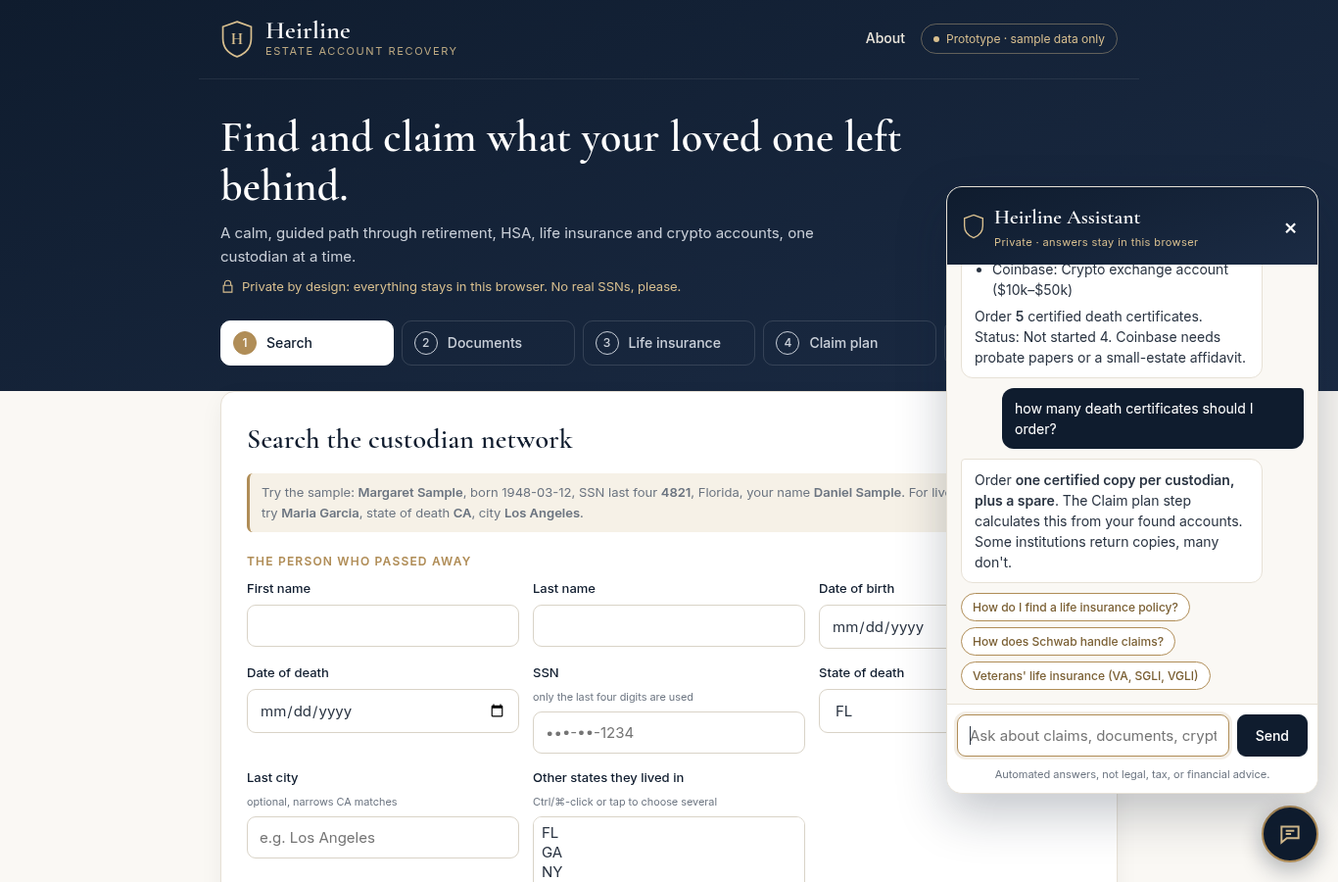
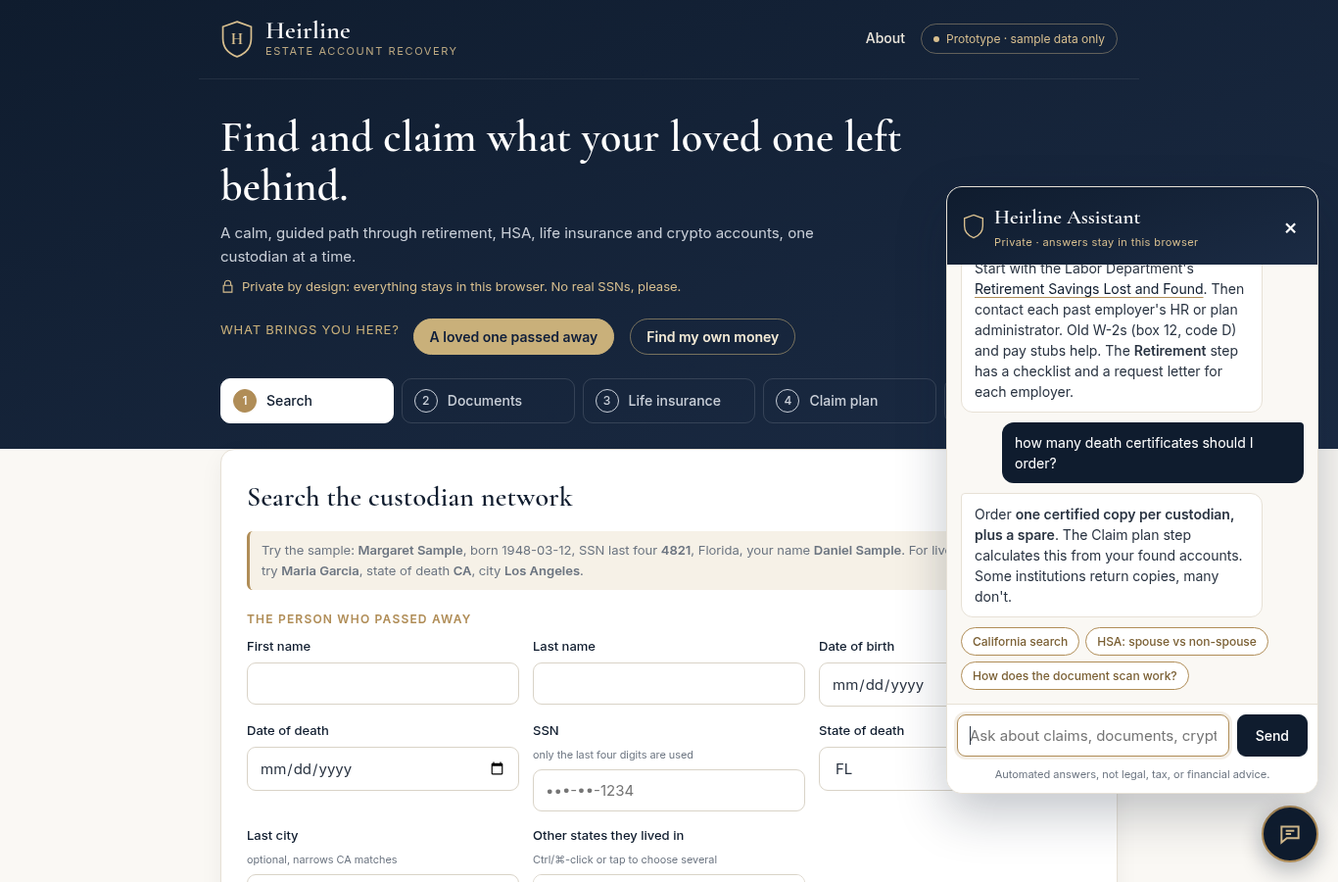
Add Find my own money mode: about you, unclaimed property with other names, retirement, other places, beneficiary checkup; About + chat updates

Changed region(s): [[0.0, 0.28, 1.0, 0.84], [0.369, 0.7156, 0.5534, 0.9956], [0.1845, 0.8711, 0.3075, 0.9956]]

diff --git a/self.js b/self.js
@@ -1,0 +1,58 @@
+// ---- "Find my own money" mode ----
+Object.assign(CUSTODIANS,{emp:{name:"Former employer plan"},dol:{name:"DOL Retirement Savings Lost and Found"},pbgc:{name:"PBGC unclaimed pensions"},other:{name:"Other source"}});
+const LOSS_NAV=$("nav.steps").innerHTML;
+const SELF_NAV=["s-about|About you","s-ucp|Unclaimed property","s-ret|Retirement","s-other|Other places","s-bene|Beneficiary checkup","track|Tracker"].map((x,i)=>{const [t,l]=x.split("|");return `<button data-tab="${t}"><span>${i+1}</span>${l}</button>`}).join("");
+const HERO={loss:["Find and claim what your loved one left behind.","A calm, guided path through retirement, HSA, life insurance and crypto accounts, one custodian at a time."],
+ self:["Find money that's already yours.","Old 401(k)s, forgotten pensions, uncashed checks and stray accounts, plus a checkup so your own family never has to search."]};
+let emp=LS.get("hl_emp",{}),bene=LS.get("hl_bene",[]);
+const BENE_LINKS={fidelity:["Fidelity","https://www.fidelity.com/customer-service/how-to-update-account-beneficiaries","Some workplace accounts need spouse consent to name someone else."],
+ vanguard:["Vanguard","https://support.vanguard.com/account-settings/beneficiaries",""],
+ schwab:["Schwab","https://www.schwab.com/estate-planning/faqs","Log in, then update beneficiaries under your account settings."],
+ empower:["Empower","https://www.empower.com/","Log in, open the account, then choose Beneficiaries. Your employer's plan may handle it differently."],
+ healthequity:["HealthEquity (HSA)","https://www.healthequity.com/help-center/articles/7910780-adding-an-hsa-beneficiary","Non-spouse beneficiaries in some states need an extra signed form."],
+ coinbase:["Coinbase","https://help.coinbase.com/",""],
+ other:["Other","",""]};
+function setMode(m){MODE=m;LS.set("hl_mode",m);ctx=LS.get(CTXK(),{});document.body.dataset.mode=m;
+ document.querySelectorAll("[data-mode]").forEach(b=>{b.classList.toggle("on",b.dataset.mode===m);b.setAttribute("aria-checked",b.dataset.mode===m)});
+ $(".hero h1").textContent=HERO[m][0];$(".hero h1+p").textContent=HERO[m][1];
+ $("nav.steps").innerHTML=m==="self"?SELF_NAV:LOSS_NAV;
+ const panel=$("#ucpPanel");(m==="self"?$("#s-ucpHost"):$("#results")).after(panel);
+ if(m==="self")fillAbout();renderUCP();show(m==="self"?"s-about":"search")}
+document.querySelectorAll("[data-mode]").forEach(b=>b.onclick=()=>setMode(b.dataset.mode));
+function fillAbout(){const f=$("#selfForm");if(!f||!ctx.last)return;f.first.value=ctx.first||"";f.last.value=ctx.last||"";
+ f.aliases.value=(ctx.aliases||[]).map(a=>a.first+" "+a.last).join("\n");f.city.value=ctx.city||"";f.employers.value=(ctx.employers||[]).join("\n");
+ [...f.states.options].forEach(o=>o.selected=[ctx.state,...(ctx.otherStates||[])].includes(o.value))}
+$("#selfForm").onsubmit=e=>{e.preventDefault();const f=e.target;const states=[...f.states.selectedOptions].map(o=>o.value);
+ const aliases=f.aliases.value.split(/\n|;/).map(s=>s.trim()).filter(Boolean).map(s=>{const p=s.split(/\s+/);return p.length>1?{first:p.slice(0,-1).join(" "),last:p.at(-1)}:{first:f.first.value.trim(),last:p[0]}});
+ ctx={first:f.first.value.trim(),last:f.last.value.trim(),aliases,state:states[0]||"Other",otherStates:states.slice(1),city:f.city.value.trim(),
+  employers:f.employers.value.split("\n").map(s=>s.trim()).filter(Boolean),searchAll:ctx.searchAll};save();renderUCP();show("s-ucp")};
+function track(id,c,type,src,url,notes){if(!found.some(x=>x.id===id)){found.push({id,c,type,bal:"Unknown until confirmed",src,url});tracker[id]??={status:"Not started",notes,follow:""};save()}}
+const EMP_STEPS=["Found an old pay stub or W-2 (box 12 code D means a 401(k))","Checked DOL Lost and Found for this employer's plan","Got the plan name and administrator from HR or the plan's Form 5500","Sent the request letter to the plan administrator","Got a statement and decided: roll over, leave, or cash out"];
+function letter(e){const me=`${ctx.first} ${ctx.last}`,other=(ctx.aliases||[]).map(a=>a.first+" "+a.last).join(", ");
+ return `[Date]\n\nPlan Administrator\n${e} retirement plan\n[Administrator address from DOL Lost and Found, HR or Form 5500]\n\nRe: Request for account information, former employee\n\nTo the Plan Administrator:\n\nI worked for ${e} and may still have a balance in its retirement plan. Please tell me whether you hold an account or pension benefit in my name and, if so, send a current statement, the plan's summary plan description, and the forms to roll over or distribute my balance.\n\nName: ${me}${other?`\nOther names used while employed: ${other}`:""}\nDates of employment: [start] to [end]\nLast address on file: [address]${ctx.city?` (${ctx.city})`:""}\nSSN: I will give my full number by phone or a secure form once you confirm you administer this plan.\n\nPlease reply to [your email or address]. Thank you.\n\nSincerely,\n${me}`}
+function renderRet(){const out=$("#empOut");const E=ctx.employers||[];
+ out.innerHTML=E.length?E.map((e,i)=>{const s=emp[e]||[];return `<div class="ca-box"><div class="ca-head"><h4 style="margin:0">${esc(e)}</h4><span class="tag">${s.filter(Boolean).length}/${EMP_STEPS.length} done</span></div>
+  ${EMP_STEPS.map((t,j)=>`<label class="clue"><input type="checkbox" data-emp="${i}" data-j="${j}" ${s[j]?"checked":""}> ${t}</label>`).join("")}
+  <details><summary>Request letter to the plan administrator</summary><textarea rows="16" readonly>${esc(letter(e))}</textarea>
+  <button class="small" data-copy="${i}">Copy letter</button></details>
+  <button class="small" data-trk="${i}">${found.some(f=>f.id==="emp|"+e)?"In tracker":"Add to tracker"}</button></div>`}).join("")
+  :`<p class="note">Add past employers on the <a href="#" data-go="s-about">About you</a> step to get a checklist and letter for each.</p>`;
+ out.querySelectorAll("[data-emp]").forEach(c=>c.onchange=()=>{const e=E[c.dataset.emp];(emp[e]??=[])[c.dataset.j]=c.checked;LS.set("hl_emp",emp);renderRet()});
+ out.querySelectorAll("[data-copy]").forEach(b=>b.onclick=async()=>{const t=letter(E[b.dataset.copy]);try{await navigator.clipboard.writeText(t);b.textContent="Copied"}catch{prompt("Copy:",t)}});
+ out.querySelectorAll("[data-trk]").forEach(b=>b.onclick=()=>{const e=E[b.dataset.trk];track("emp|"+e,"emp",e+" retirement plan","Past employer","","Request letter to plan administrator");b.textContent="In tracker"});
+ out.querySelectorAll("[data-go]").forEach(a=>a.onclick=ev=>{ev.preventDefault();show(a.dataset.go)})}
+document.querySelectorAll("[data-trackx]").forEach(b=>b.onclick=()=>{const [id,c,type,url]=b.dataset.trackx.split("~");track(id,c,type,"Self search",url,"");b.textContent="In tracker";b.disabled=true});
+function renderBene(){const rows=$("#beneRows");
+ rows.innerHTML=bene.length?bene.map((r,i)=>{const L=BENE_LINKS[r.c]||BENE_LINKS.other;const stale=r.rev&&r.rev<new Date(Date.now()-3*365*864e5).toISOString().slice(0,10);
+  return `<tr><td><select data-b="${i}" data-k="c">${Object.entries(BENE_LINKS).map(([k,v])=>`<option value="${k}" ${k===r.c?"selected":""}>${v[0]}</option>`).join("")}</select></td>
+  <td><input data-b="${i}" data-k="t" value="${esc(r.t||"")}" placeholder="e.g. 401(k), IRA, HSA"></td>
+  <td>${r.c==="coinbase"?`<span class="no">No option</span>`:`<select data-b="${i}" data-k="n">${["Unsure","Yes","No"].map(v=>`<option ${v===r.n?"selected":""}>${v}</option>`).join("")}</select>`}</td>
+  <td><input type="date" data-b="${i}" data-k="rev" value="${r.rev||""}">${stale?`<br><small class="no">Over 3 years ago</small>`:""}</td>
+  <td>${r.c==="coinbase"?`<small>Coinbase accounts have no beneficiary option. Plan for crypto with a will or trust, or self-custody with multisig or Shamir backup so a trusted person can recover it.</small>`:L[1]?`<a href="${L[1]}" target="_blank" rel="noopener">Update ↗</a>${L[2]?`<br><small class="note">${L[2]}</small>`:""}`:`<small class="note">Check the provider's site after you log in.</small>`}</td>
+  <td><button class="link" data-del="${i}" aria-label="Remove row">Remove</button></td></tr>`}).join(""):`<tr><td colspan="6" class="note">No accounts yet. Add each account you own.</td></tr>`;
+ const need=bene.filter(r=>r.c!=="coinbase"&&r.n!=="Yes").length;$("#beneSum").textContent=bene.length?`${need} of ${bene.length} account${bene.length>1?"s":""} need${need===1?"s":""} attention.`:"";
+ rows.querySelectorAll("[data-b]").forEach(x=>x.onchange=()=>{bene[x.dataset.b][x.dataset.k]=x.value;LS.set("hl_bene",bene);renderBene()});
+ rows.querySelectorAll("[data-del]").forEach(x=>x.onclick=()=>{bene.splice(x.dataset.del,1);LS.set("hl_bene",bene);renderBene()})}
+$("#beneAdd").onclick=()=>{bene.push({c:"fidelity",t:"",n:"Unsure",rev:""});LS.set("hl_bene",bene);renderBene()};
+window.selfShow=t=>{if(t==="s-ret")renderRet();if(t==="s-bene")renderBene();if(t==="s-ucp"&&!ctx.last)$("#ucpPanel").innerHTML=`<div class="card"><p class="note">Fill in <b>About you</b> first so we can search your names.</p></div>`};
+setMode(MODE);

diff --git a/app.js b/app.js
@@ -1,13 +1,15 @@
 const $=s=>document.querySelector(s);
 const esc=s=>String(s??"").replace(/[&<>"']/g,c=>({"&":"&amp;","<":"&lt;",">":"&gt;",'"':"&quot;","'":"&#39;"}[c]));
 const LS={get:(k,d)=>{try{return JSON.parse(localStorage.getItem(k))??d}catch{return d}},set:(k,v)=>localStorage.setItem(k,JSON.stringify(v))};
-let found=LS.get("hl_found",[]), ctx=LS.get("hl_ctx",{}), tracker=LS.get("hl_tracker",{});
-const save=()=>{LS.set("hl_found",found);LS.set("hl_ctx",ctx);LS.set("hl_tracker",tracker)};
+let MODE=LS.get("hl_mode","loss");const CTXK=()=>MODE==="self"?"hl_ctx_self":"hl_ctx";
+let found=LS.get("hl_found",[]), ctx=LS.get(CTXK(),{}), tracker=LS.get("hl_tracker",{});
+const save=()=>{LS.set("hl_found",found);LS.set(CTXK(),ctx);LS.set("hl_tracker",tracker)};
+const UK=k=>(MODE==="self"?"self:":"")+k;
 
-document.querySelectorAll("nav button").forEach(b=>b.onclick=()=>show(b.dataset.tab));
-function show(t){const order=["search","scan","life","plan","track"],k=order.indexOf(t);document.querySelectorAll("nav button").forEach((b,i)=>b.classList.toggle("done",i<k));document.querySelectorAll("nav button").forEach(b=>b.classList.toggle("active",b.dataset.tab===t));
+document.querySelector("nav.steps").onclick=e=>{const b=e.target.closest("button[data-tab]");if(b)show(b.dataset.tab)};
+function show(t){const order=[...document.querySelectorAll("nav.steps button")].map(b=>b.dataset.tab),k=order.indexOf(t);document.querySelectorAll("nav button").forEach((b,i)=>b.classList.toggle("done",i<k));document.querySelectorAll("nav button").forEach(b=>b.classList.toggle("active",b.dataset.tab===t));
  document.querySelectorAll(".tab").forEach(s=>s.classList.toggle("active",s.id===t));
- if(t==="plan")renderPlan(); if(t==="life")renderLife(); if(t==="track")renderTracker(); window.scrollTo(0,0)}
+ if(t==="plan")renderPlan(); if(t==="life")renderLife(); if(window.selfShow)selfShow(t); if(t==="track")renderTracker(); window.scrollTo(0,0)}
 
 function addAccount(a){const id=a.c+"|"+a.type.toLowerCase(); const t=a.type.toLowerCase();
  const dup=f=>f.id===id||(f.c===a.c&&a.src==="document"&&(t==="ira"&&/ira/i.test(f.type)||f.type.toLowerCase().includes(t)||t.includes(f.type.toLowerCase())));
@@ -17,8 +19,8 @@ let ucp=LS.get("hl_ucp",{});
 const UCP_LABEL={"":"Not checked yet",checked:"Checked","none":"Nothing found",found:"Found property"};
 function renderUCP(){const el=$("#ucpPanel"); if(!ctx.last){el.innerHTML="";return}
  const states=[...new Set([ctx.state,...(ctx.otherStates||[])])].filter(s=>STATE_SITES[s]);
- const name=`${ctx.last}, ${ctx.first}`;
- const row=(key,S)=>{const st=ucp[key]||"";return `<div class="ucp-row"><div class="ucp-info"><b>${S.site}</b><span>${key==="MM"?S.name:S.name+" · official state site"}</span></div>
+ const allNames=[{first:ctx.first,last:ctx.last},...(ctx.aliases||[])].filter(n=>n.last);const name=allNames.map(n=>`${n.last}, ${n.first}`).join("; ");
+ const row=(key,S)=>{const st=ucp[UK(key)]||"";return `<div class="ucp-row"><div class="ucp-info"><b>${S.site}</b><span>${key==="MM"?S.name:S.name+" · official state site"}</span></div>
   <div class="ucp-act"><a class="btn" href="${S.url}" target="_blank" rel="noopener">Search ↗</a>
   <select data-ucp="${key}" aria-label="Result for ${S.site}">${Object.entries(UCP_LABEL).map(([v,l])=>`<option value="${v}" ${v===st?"selected":""}>${l}</option>`).join("")}</select></div></div>`};
  el.innerHTML=`<div class="card ucp"><div class="ucp-head"><h3>Unclaimed property</h3><span class="tag gold">${states.length+1} place${states.length?"s":""} to check</span></div>
@@ -31,8 +33,8 @@ function renderUCP(){const el=$("#ucpPanel"); if(!ctx.last){el.innerHTML="";retu
  <p class="note">Marking a result "Found property" adds it to your claim plan and tracker.</p></div>`;
  $("#copyName").onclick=async e=>{try{await navigator.clipboard.writeText(name);e.target.textContent="Copied"}catch{prompt("Copy:",name)}};
  $("#searchAll").onchange=e=>{ctx.searchAll=e.target.checked;save();searchAuto(states)};searchAuto(states);
- el.querySelectorAll("[data-ucp]").forEach(s=>s.onchange=()=>{const k=s.dataset.ucp;ucp[k]=s.value;LS.set("hl_ucp",ucp);
-  const S=k==="MM"?MISSING_MONEY:STATE_SITES[k];const id="ucp|"+k;
+ el.querySelectorAll("[data-ucp]").forEach(s=>s.onchange=()=>{const k=s.dataset.ucp;ucp[UK(k)]=s.value;LS.set("hl_ucp",ucp);
+  const S=k==="MM"?MISSING_MONEY:STATE_SITES[k];const id="ucp|"+UK(k);
   if(s.value==="found"){if(!found.some(f=>f.id===id)){found.push({id,c:"ucp",type:"Unclaimed property · "+S.name,bal:"Shown on state site",src:"unclaimed-property search",url:S.url});
    tracker[id]??={status:"Not started",notes:"Found via "+S.site,follow:""};save()}}
   else{const i=found.findIndex(f=>f.id===id);if(i>=0&&!(tracker[id]&&tracker[id].status!=="Not started")){found.splice(i,1);delete tracker[id];save()}}})}
@@ -42,7 +44,7 @@ async function covered(){return COVERED??=await (await fetch("data/states.json")
 async function shardFor(st,last){const m=metaC[st]??=await (await fetch(`data/${st.toLowerCase()}/meta.json`)).json();
  const k=nm(last);let key=k.slice(0,2);if(m.shards[key]==="split")key=k.slice(0,3);if(!m.shards[key])return [m,null];
  return [m,shardC[st+key]??=await (await fetch(`data/${st.toLowerCase()}/${key}.json`)).json()]}
-function matchRows(sh){const L=nm(ctx.last),F=nm(ctx.first),city=(ctx.city||"").toUpperCase().trim();const rows=[];if(!sh)return rows;
+function matchRows(sh,first=ctx.first,last=ctx.last){const L=nm(last),F=nm(first),city=(ctx.city||"").toUpperCase().trim();const rows=[];if(!sh)return rows;
  for(const r of sh.r){if(nm(r[0])!==L)continue;const fr=nm((r[1]||"").split(" ")[0]);let m=null;
   if(F&&fr===F)m="exact";else if(F&&fr[0]===F[0]&&(fr.length===1||F.startsWith(fr)||fr.startsWith(F)))m="close";if(!m)continue;
   if(city&&r[2]!==city)continue;rows.push({m,last:r[0],rest:r[1],city:r[2],zip:r[3],type:sh.t[r[4]],amt:r[5],holder:sh.h[r[6]],id:r[7],paid:r[8]})}
@@ -53,9 +55,9 @@ async function searchAuto(rel){const box=$("#autoMatches");if(!box)return;
   if(!list.length){box.innerHTML=`<p class="note">None of the selected states publish open data yet. Turn on "Search all covered states" or use the manual searches below.</p>`;return}
   box.innerHTML=list.map(s=>`<div class="ca-box" id="auto-${s}"><p class="note">Searching ${cov[s].name}'s public records…</p></div>`).join("");
   let total=0;
-  for(const st of list){const el=$("#auto-"+st);const [m,sh]=await shardFor(st,ctx.last);const rows=matchRows(sh);total+=rows.length;const shown=rows.slice(0,50);
-   el.innerHTML=`<div class="ca-head"><h4 style="margin:0">${m.name} · automatic search${rel.includes(st)?"":' <span class="tag">not a state they lived in</span>'}</h4><span class="note">Data as of ${m.asOf} · records of ${fmt(m.minAmount)}+ only · ${m.records.toLocaleString()} records</span></div>
-   ${rows.length?`<p class="note">${rows.length} possible match${rows.length>1?"es":""} for <b>${esc(ctx.last)}, ${esc(ctx.first)}</b>${ctx.city?" in "+esc(ctx.city.toUpperCase()):""}${rows.length>50?" (showing top 50)":""}. Confirm the address matches before claiming.</p>
+  for(const st of list){const el=$("#auto-"+st);let m,rows=[];for(const n of [{first:ctx.first,last:ctx.last},...(ctx.aliases||[])].filter(n=>n.last)){const [mm,sh]=await shardFor(st,n.last);m=mm;const seen=new Set(rows.map(r=>r.id));matchRows(sh,n.first,n.last).forEach(r=>{if(!seen.has(r.id))rows.push(r)})}rows.sort((a,b)=>(a.m>b.m?-1:a.m<b.m?1:0)||b.amt-a.amt);total+=rows.length;const shown=rows.slice(0,50);
+   el.innerHTML=`<div class="ca-head"><h4 style="margin:0">${m.name} · automatic search${rel.includes(st)?"":' <span class="tag">not a state ${MODE==="self"?"you":"they"} lived in</span>'}</h4><span class="note">Data as of ${m.asOf} · records of ${fmt(m.minAmount)}+ only · ${m.records.toLocaleString()} records</span></div>
+   ${rows.length?`<p class="note">${rows.length} possible match${rows.length>1?"es":""} for <b>${esc(ctx.last)}, ${esc(ctx.first)}${(ctx.aliases||[]).length?" (and other names)":""}</b>${ctx.city?" in "+esc(ctx.city.toUpperCase()):""}${rows.length>50?" (showing top 50)":""}. Confirm the address matches before claiming.</p>
    <div class="tbl"><table><tr><th>Match</th><th>Owner on record</th><th>City</th><th>Amount</th><th>Holder</th><th>Property ID</th><th></th></tr>
    ${shown.map(r=>{const id=st.toLowerCase()+"|"+r.id,on=found.some(f=>f.id===id);return `<tr><td><span class="tag ${r.m==="exact"?"gold":""}">${r.m}</span></td><td>${esc(r.last+" "+r.rest)}</td><td>${esc(r.city)} ${esc(r.zip)}</td><td>${fmt(r.amt)}${r.paid?' <small class="no">claim paid before</small>':""}</td><td>${esc(r.holder)}<br><small class="note">${esc(r.type)}</small></td><td>${esc(r.id)}</td>
     <td><button class="small" data-auto="${st}" data-rec='${esc(JSON.stringify(r))}' ${on?"disabled":""}>${on?"In tracker":"Add to tracker"}</button></td></tr>`}).join("")}</table></div>

diff --git a/index.html b/index.html
@@ -9,6 +9,7 @@
 <div class="wrap hero"><h1>Find and claim what your loved one left behind.</h1>
 <p>A calm, guided path through retirement, HSA, life insurance and crypto accounts, one custodian at a time.</p>
 <p class="trust"><svg viewBox="0 0 24 24" width="15" height="15"><path d="M7 10V7a5 5 0 0 1 10 0v3M5 10h14v11H5z" fill="none" stroke="currentColor" stroke-width="1.8"/></svg> Private by design: everything stays in this browser. No real SSNs, please.</p></div>
+<div class="wrap modes" role="radiogroup" aria-label="What brings you here?"><span class="modes-q">What brings you here?</span><button type="button" role="radio" data-mode="loss">A loved one passed away</button><button type="button" role="radio" data-mode="self">Find my own money</button></div>
 <nav class="wrap steps"><button data-tab="search" class="active"><span>1</span>Search</button><button data-tab="scan"><span>2</span>Documents</button><button data-tab="life"><span>3</span>Life insurance</button><button data-tab="plan"><span>4</span>Claim plan</button><button data-tab="track"><span>5</span>Tracker</button></nav></header>
 <main class="wrap">
 <section id="search" class="tab active"><div class="card"><h2>Search the custodian network</h2>
@@ -52,6 +53,35 @@
 <p class="note">Found a policy? Scan the document in <b>Documents</b> to add it to your claim plan, or note the insurer in the tracker.</p></div></section>
 <section id="plan" class="tab"><div id="planOut"></div></section>
 <section id="track" class="tab"><div id="trackOut"></div></section>
+
+<section id="s-about" class="tab"><div class="card"><h2>About you</h2><p class="note">We use this only to search public records and fill in letters. It stays in this browser. No SSN needed here.</p>
+<form id="selfForm"><div class="grid"><label>First name<input name="first" required placeholder="Ellen"></label><label>Last name<input name="last" required placeholder="Okafor"></label></div>
+<label>Other or maiden names <small>One per line, e.g. "Ellen Brooks" or just "Brooks"</small><textarea name="aliases" rows="2"></textarea></label>
+<div class="grid"><label>States you've lived in <small>Ctrl/⌘-click or tap to choose several</small><select name="states" multiple size="4"><option value="FL">FL</option><option value="GA">GA</option><option value="NY">NY</option><option value="CA">CA</option><option value="TX">TX</option><option value="NC">NC</option><option value="PA">PA</option><option value="OH">OH</option><option value="IL">IL</option><option value="VA">VA</option></select></label>
+<label>Last city you lived in <small>Optional: narrows the automatic search</small><input name="city"></label></div>
+<label>Past employers <small>One per line</small><textarea name="employers" rows="3" placeholder="Acme Logistics&#10;Brightwater Bank"></textarea></label>
+<button class="primary">Save and search</button></form></div></section>
+<section id="s-ucp" class="tab"><div id="s-ucpHost"></div></section>
+<section id="s-ret" class="tab"><div class="card"><h2>Retirement and lost accounts</h2>
+<div class="ca-box"><h4>DOL Retirement Savings Lost and Found</h4><p class="note">The U.S. Department of Labor's free database of workplace retirement plans that owe people money. You sign in with an identity-verified Login.gov account and it searches your own SSN, then shows the plan and the administrator to contact. Heirline never sees your SSN.</p>
+<a class="btn" href="https://lostandfound.dol.gov/" target="_blank" rel="noopener">Open Lost and Found ↗</a> <button class="small" data-trackx="self|dol~dol~DOL Lost and Found search~https://lostandfound.dol.gov/">Add to tracker</button></div>
+<div class="ca-box"><h4>PBGC unclaimed pensions</h4><p class="note">The Pension Benefit Guaranty Corporation lists people owed pensions from plans that ended. Search by last name and the last 4 digits of your SSN (type them on PBGC's site, not here). A match is a first step: you then contact PBGC.</p>
+<a class="btn" href="https://www.pbgc.gov/workers-retirees/find-unclaimed-retirement-benefits/search-unclaimed" target="_blank" rel="noopener">Search PBGC ↗</a> <button class="small" data-trackx="self|pbgc~pbgc~PBGC unclaimed pension search~https://www.pbgc.gov/workers-retirees/find-unclaimed-retirement-benefits/search-unclaimed">Add to tracker</button></div>
+<h3>Your past employers</h3><div id="empOut"></div></div></section>
+<section id="s-other" class="tab"><div class="card"><h2>Other places to look</h2>
+<div class="ca-box"><h4>Savings bonds and Treasury securities</h4><p class="note">Treasury Hunt closed on September 30, 2025. Matured, unclaimed Treasury securities now go through state unclaimed-property programs, so search every state you've lived in. For lost, stolen or destroyed paper bonds, use TreasuryDirect's forms.</p>
+<a class="btn" href="https://unclaimed.org/" target="_blank" rel="noopener">State programs ↗</a> <a class="btn" href="https://www.treasurydirect.gov/savings-bonds/forms/" target="_blank" rel="noopener">Bond forms ↗</a> <a class="btn" href="https://www.treasurydirect.gov/savings-bonds/treasury-hunt/" target="_blank" rel="noopener">About the change ↗</a></div>
+<div class="ca-box"><h4>Old HSAs</h4><p class="note">HSAs stay yours after you leave a job. Check old benefits paperwork or pay stubs for the HSA provider's name, then log in or call. Dormant HSAs can be turned over to the state, so the unclaimed-property step also covers them.</p>
+<button class="small" data-trackx="self|hsa~other~Old HSA from a past employer~">Add to tracker</button></div>
+<div class="ca-box"><h4>Old bank and brokerage accounts</h4><p class="note">Look for old statements, 1099 tax forms, or emails from banks and brokers. Accounts with no activity for a few years are sent to the state, so search each state you've lived in. Brokerage shares may be sold by the state, but you can usually still claim their value.</p>
+<button class="small" data-trackx="self|bank~other~Old bank or brokerage account~">Add to tracker</button></div>
+<div class="ca-box"><h4>IRS refunds</h4><p class="note">Use Where's My Refund to check a recent return or start a trace for a lost check. If you never filed for a year you were owed a refund, you generally have three years to claim it. For a missing check, the IRS line is 800-829-1954.</p>
+<a class="btn" href="https://www.irs.gov/refunds" target="_blank" rel="noopener">Where's My Refund ↗</a> <a class="btn" href="https://www.usa.gov/unclaimed-tax-refunds" target="_blank" rel="noopener">Unclaimed tax refunds ↗</a></div>
+<p class="note">Think you're the beneficiary of someone else's life insurance? The <a href="https://eapps.naic.org/life-policy-locator/" target="_blank" rel="noopener">NAIC Life Insurance Policy Locator</a> searches on behalf of beneficiaries of a person who has died.</p></div></section>
+<section id="s-bene" class="tab"><div class="card"><h2>Beneficiary checkup</h2><p class="note">Accounts with a named beneficiary pass directly and quickly. Accounts without one can end up in probate. List what you own and check each one. <b id="beneSum"></b></p>
+<div class="tbl"><table class="bene"><tr><th>Provider</th><th>Account</th><th>Beneficiary named?</th><th>Last reviewed</th><th>Update</th><th></th></tr><tbody id="beneRows"></tbody></table></div>
+<button class="small" id="beneAdd">+ Add account</button>
+<p class="note">Review after marriage, divorce, a birth or a death. A beneficiary form usually overrides your will.</p></div></section>
 </main><footer class="wrap">Heirline prototype · fictional sample data · not legal, tax or financial advice · Contact: <a href="mailto:heirline@mail.grokbot.com">heirline@mail.grokbot.com</a></footer>
 <script src="https://cdn.jsdelivr.net/npm/pdfjs-dist@3.11.174/build/pdf.min.js"></script>
-<script src="data.js"></script><script src="app.js"></script><script src="chat.js"></script></body></html>
+<script src="data.js"></script><script src="app.js"></script><script src="self.js"></script><script src="chat.js"></script></body></html>

diff --git a/chat.js b/chat.js
@@ -3,6 +3,15 @@
 const L=(u,t)=>`<a href="${u}" target="_blank" rel="noopener">${t} ↗</a>`;
 const U={fid:"https://digital.fidelity.com/prgw/digital/journeys/loss/report-a-death",van:"https://investor.vanguard.com/inheriting-accounts",sch:"https://www.schwab.com/life-events/losing-a-loved-one",emp:"https://www.empower.com/beneficiary-claim",he:"https://www.healthequity.com/help-center/articles/6026409-hsa-account-management",cb:"https://help.coinbase.com/en/coinbase/managing-my-account/other/how-do-i-gain-access-to-a-deceased-family-members-coinbase-account",mm:"https://missingmoney.com/app/claim-search",naupa:"https://unclaimed.org/search-property/",ca:"https://claimit.ca.gov/",cer:"https://www.cerulli.com/press-releases/cerulli-anticipates-84-trillion-in-wealth-transfers-through-2045"};
 const KB=[
+["What is Find my own money?","find my own money self mode myself own lost money mine forgotten","<b>Find my own money</b> is a second mode. Choose it at the top of the app. It walks you through <b>About you</b>, <b>Unclaimed property</b> (searching your name and any other or maiden names), <b>Retirement</b>, <b>Other places</b>, a <b>Beneficiary checkup</b>, and the shared <b>Tracker</b>."],
+["How do I find an old 401(k)?","old 401k lost retirement plan former employer forgotten job pension find","Start with the Labor Department's <a href='https://lostandfound.dol.gov/' target='_blank' rel='noopener'>Retirement Savings Lost and Found</a>. Then contact each past employer's HR or plan administrator. Old W-2s (box 12, code D) and pay stubs help. The <b>Retirement</b> step has a checklist and a request letter for each employer."],
+["What is DOL Lost and Found?","dol department of labor lost and found login.gov retirement database","A free U.S. Department of Labor database of workplace retirement plans. You sign in with an identity-verified Login.gov account, and it searches your own SSN and shows the plan administrator to contact. Heirline never sees your SSN. DOL staff can't search for you."],
+["How do I check PBGC for a pension?","pbgc pension guaranty unclaimed pension ended plan terminated","The <a href='https://www.pbgc.gov/workers-retirees/find-unclaimed-retirement-benefits/search-unclaimed' target='_blank' rel='noopener'>PBGC search</a> lists people owed pensions from plans that ended. Search by last name and the last 4 of your SSN on PBGC's site. A match is a first step: then you contact PBGC."],
+["Can I still use Treasury Hunt?","treasury hunt savings bonds treasurydirect matured unclaimed bonds","No. Treasury Hunt closed on September 30, 2025. Matured, unclaimed Treasury securities now go through state unclaimed-property programs (see <a href='https://unclaimed.org/' target='_blank' rel='noopener'>unclaimed.org</a>). For lost or destroyed paper bonds, use <a href='https://www.treasurydirect.gov/savings-bonds/forms/' target='_blank' rel='noopener'>TreasuryDirect's forms</a>."],
+["Do I have an unclaimed IRS refund?","irs refund tax refund where's my refund missing check unclaimed","Use <a href='https://www.irs.gov/refunds' target='_blank' rel='noopener'>Where's My Refund</a> to check a return or start a trace on a lost check. If you didn't file for a year you were owed money, you generally have three years to claim it. Missing check line: 800-829-1954."],
+["What about an old HSA?","old hsa health savings account former job left employer","An HSA stays yours after you leave a job. Find the provider on old benefits papers or pay stubs, then log in or call. Dormant HSAs can be turned over to the state, so search unclaimed property too."],
+["Why should I check my beneficiaries?","beneficiary checkup review update designation my own beneficiaries","A named beneficiary lets an account pass directly, without probate, and the form usually overrides your will. Review after marriage, divorce, a birth or a death. The <b>Beneficiary checkup</b> step lists your accounts with links to each provider's update page."],
+["How do I name a beneficiary for crypto?","crypto coinbase beneficiary my own multisig shamir estate plan bitcoin","Coinbase accounts have no beneficiary option. Cover crypto in your will or a trust, or use self-custody with a multisig or Shamir backup so a trusted person can recover it. Talk to an estate attorney about the details."],
 ["What is Heirline?","what is heirline about purpose app does overview explain","Heirline helps families find a loved one's retirement accounts, HSAs and crypto, then work through each claim. It has five steps: <b>Search</b>, <b>Documents</b>, <b>Unclaimed property</b>, a <b>Claim plan</b> with cover letters, and a <b>Tracker</b>."],
 ["Is this a real service?","prototype real demo test fake beta production live service","No. Heirline is a <b>prototype</b>. The custodian network is sample data, nothing is submitted to any institution, and it isn't legal, tax or financial advice."],
 ["How does search work?","search work how lookup find accounts custodian network","Enter the person's name, dates, SSN last four, state and your role. The app checks a <b>sample</b> custodian network of 8 fictional people and shows each account's type, a balance range and whether you're a named beneficiary. Try Margaret Sample, born 1948-03-12, last four 4821."],
@@ -51,7 +60,7 @@ const KB=[
 ["How do I contact Heirline?","contact email reach team support talk human","Email us at <a href='mailto:heirline@mail.grokbot.com'>heirline@mail.grokbot.com</a>. It's a prototype, so replies may take a little while."],
 ["For financial institutions","financial institutions bank custodian partner business","We're exploring beneficiary checkups for account owners and better-organized claim packets for custodians. Questions? Email <a href='mailto:heirline@mail.grokbot.com'>heirline@mail.grokbot.com</a>."]
 ];
-const SUG=["What is Heirline?","My results","How do I find a life insurance policy?","What documents should I gather?","How many death certificates?","California search","Crypto with no beneficiary"];
+const SUG=["What is Heirline?","How do I find an old 401(k)?","My results","How do I find a life insurance policy?","What documents should I gather?","How many death certificates?","California search","Crypto with no beneficiary"];
 const tok=s=>(s.toLowerCase().match(/[a-z0-9]+/g)||[]).map(w=>w.replace(/(ies)$/,"y").replace(/([^s])s$/,"$1"));
 const STOP=new Set("the a an is i my do how what to of for and or in on it can should does me you with about".split(" "));
 const docs=KB.map(([q,k,a])=>({q,a,t:tok(q+" "+k)}));

diff --git a/about.html b/about.html
@@ -26,7 +26,8 @@
 <div class="card"><div class="num">05</div><h3>Life insurance</h3><p>Guidance on the free NAIC Life Insurance Policy Locator and MIB's paid locator, veterans' coverage, and a checklist of clues like premium payments and employer group policies. The document scan spots insurer names and premium notices, and locator requests go straight into your tracker.</p></div>
 <div class="card"><div class="num">06</div><h3>Claim plan</h3><p>Step-by-step instructions and a document checklist for each custodian, a ready-to-edit cover letter to copy or download, and a death-certificate count.</p></div>
 <div class="card"><div class="num">07</div><h3>Tracker</h3><p>Follow every claim from not started to paid, with notes and follow-up dates.</p></div>
-<div class="card"><div class="num">08</div><h3>Heirline Assistant</h3><p>A built-in chat with 47 answers on claims, documents, life insurance, probate basics, HSAs and crypto. Ask for <b>my results</b> to get a summary of your found accounts and plan. It runs in your browser and the chat isn't saved.</p></div></div>
+<div class="card"><div class="num">08</div><h3>Find my own money</h3><p>A second mode for your own forgotten money. Search unclaimed property under your name and any other or maiden names, check the Labor Department's Retirement Savings Lost and Found and PBGC, and get a checklist and request letter for each past employer. It also covers savings bonds, old HSAs and bank accounts, and IRS refunds, and includes a beneficiary checkup with links to each provider's update page.</p></div>
+<div class="card"><div class="num">09</div><h3>Heirline Assistant</h3><p>A built-in chat with 56 answers on claims, documents, life insurance, probate basics, HSAs, crypto and finding your own lost money. Ask for <b>my results</b> to get a summary of your found accounts and plan. It runs in your browser and the chat isn't saved.</p></div></div>
 <section class="card dark"><h4>For financial institutions</h4><h2>Fewer stalled claims, better-prepared beneficiaries</h2>
 <p>We're exploring tools for custodians and plan providers: beneficiary checkups that help account owners keep designations current while they're alive, and complete, well-organized claim packets that make the process smoother for families and staff after a death.</p></section>
 <section class="card"><h4>How it protects your privacy</h4><h2>Honest about what this prototype does</h2>

diff --git a/styles.css b/styles.css
@@ -57,3 +57,9 @@ select[multiple]{padding:6px}@media(max-width:620px){.ucp-act{width:100%}.ucp-ac
 .sw{flex-direction:row;align-items:center;gap:8px;font-weight:600}.sw input{width:18px;height:18px;accent-color:var(--ink)}
 .clue{flex-direction:row;align-items:flex-start;gap:10px;font-weight:400;padding:9px 0;border-bottom:1px solid var(--line);font-size:14px}.clue input{margin-top:3px;width:17px;height:17px;accent-color:var(--ink)}
 #life .ca-box{margin-bottom:14px}@media(max-width:620px){.steps button{min-width:calc(33% - 6px)}}
+.modes{display:flex;flex-wrap:wrap;gap:8px;align-items:center;margin:4px auto 14px}.modes-q{color:#c9b07a;font-size:13px;letter-spacing:.06em;text-transform:uppercase;margin-right:6px}
+.modes button{background:transparent;border:1px solid rgba(201,176,122,.55);color:#f3ead6;border-radius:999px;padding:9px 16px;font-weight:600;cursor:pointer}
+.modes button.on{background:#c9b07a;color:#0f1e3a;border-color:#c9b07a}
+#empOut textarea{width:100%;font:13px/1.45 Inter,sans-serif;margin:8px 0}#empOut details{margin:10px 0}#empOut summary{cursor:pointer;font-weight:600}
+table.bene input,table.bene select{min-width:110px}#s-ret .ca-box,#s-other .ca-box{margin-bottom:14px}
+@media(max-width:620px){.modes button{flex:1 1 45%;padding:9px 10px;font-size:14px}}
